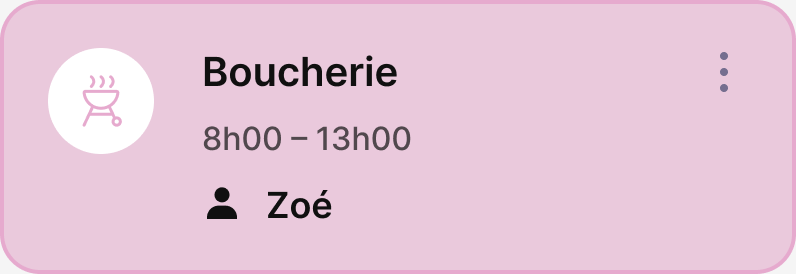
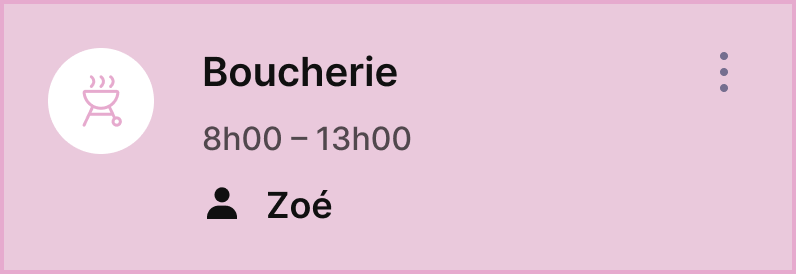
Parallax sur les horaires

diff --git a/src/index.html b/src/index.html
@@ -97,10 +97,10 @@
         <p>L’hypothèse qui est ressortie de ces interviews est la création d’un site pour la création et la gestion d'horaires avec attribution de liste de tâches, mais aussi la visualisation de ce dernier pour les employés.</p>
       </div>
 
-      <div class="section__part g6to12 horaire">
-        <img src="assets/images/fruit.png" alt="" class="img horaire__img">
-        <img src="assets/images/magasin.png" alt="" class="img horaire__img">
-        <img src="assets/images/boucherie.png" alt="" class="img horaire__img">
+      <div class="section__part g7to12 horaire">
+        <img src="assets/images/fruit.png" alt="" class="img horaire__img horaire1">
+        <img src="assets/images/magasin.png" alt="" class="img horaire__img horaire2">
+        <img src="assets/images/boucherie.png" alt="" class="img horaire__img horaire3">
       </div>
     </section>
 

diff --git a/src/scripts/app.js b/src/scripts/app.js
@@ -146,3 +146,37 @@ document.querySelector(".navigation__burger").addEventListener("click", function
     document.querySelector(".navigation__list").classList.remove("navigation__list--active");
   });
 });
+
+
+// parallax section horaire
+gsap.to(".horaire1", {
+  yPercent: 40,
+
+  scrollTrigger: {
+    trigger: ".section--horaire",
+    start: "top center",
+    end: "bottom top",
+    scrub: true,
+  }
+})
+gsap.to(".horaire2", {
+  yPercent: 80,
+
+  scrollTrigger: {
+    trigger: ".section--horaire",
+    start: "top center",
+    end: "bottom top",
+    scrub: true,
+  }
+})
+gsap.to(".horaire3", {
+  yPercent: -120,
+
+  scrollTrigger: {
+    trigger: ".section--horaire",
+    start: "top center",
+    end: "bottom top",
+    scrub: true,
+  }
+})
+

diff --git a/src/styles/components/_sections.scss b/src/styles/components/_sections.scss
@@ -160,6 +160,7 @@ main{
 }
 
 .horaire{
+  position: relative;
   display: flex;
   flex-direction: column;
   justify-content: space-between;
@@ -170,7 +171,7 @@ main{
     width: auto;
     margin-bottom: 40px;
     border-radius: 0;
-    box-shadow: none;
+
 
     @media (max-width: $tablet) {
       height: 80px;
